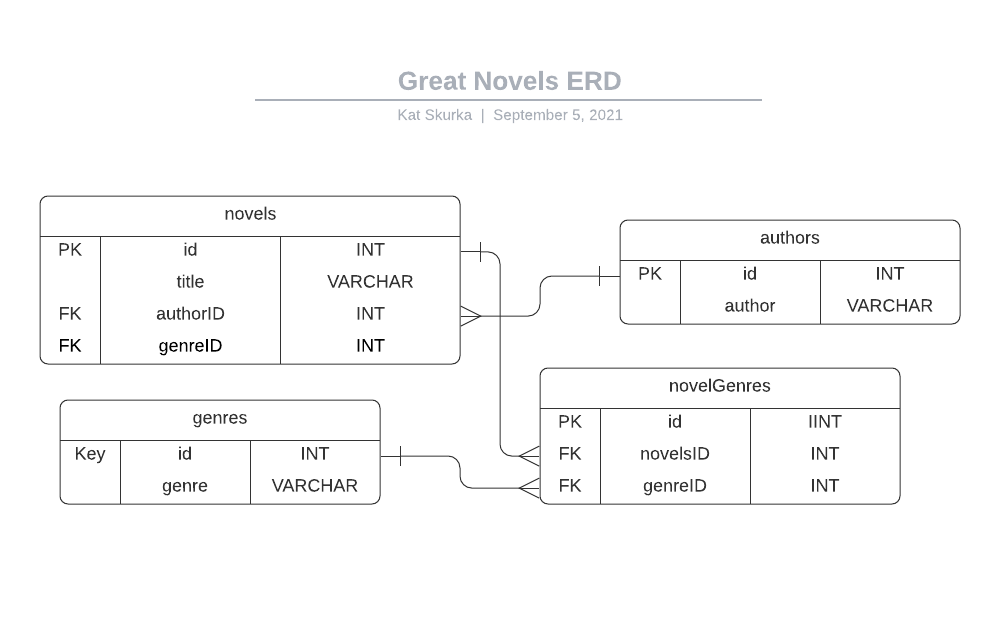
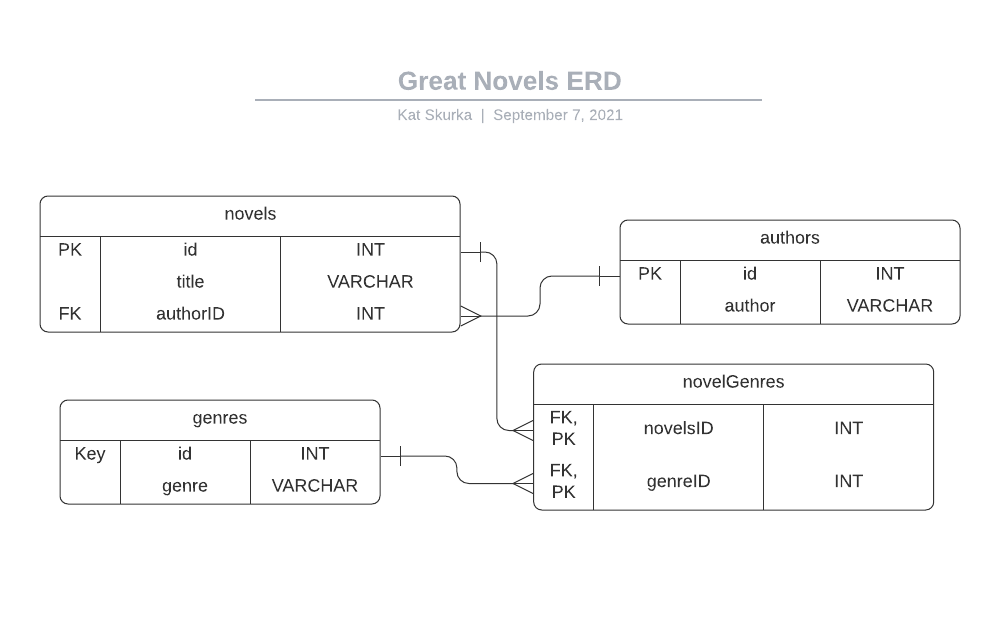
edited ERD structure, made corresponding changes in sql and models

diff --git a/models/novelGenres.js b/models/novelGenres.js
@@ -1,6 +1,5 @@
 const NovelGenres = (connection, Sequelize, Genres, Novels) => {
   return connection.define('novelGenres', {
-    title: { type: Sequelize.STRING },
     novelId: { type: Sequelize.INTEGER, primaryKey: true, references: { model: Novels, key: 'id' } },
     genreId: { type: Sequelize.INTEGER, primaryKey: true, references: { model: Genres, key: 'id' } }
   }, { paranoid: true })
